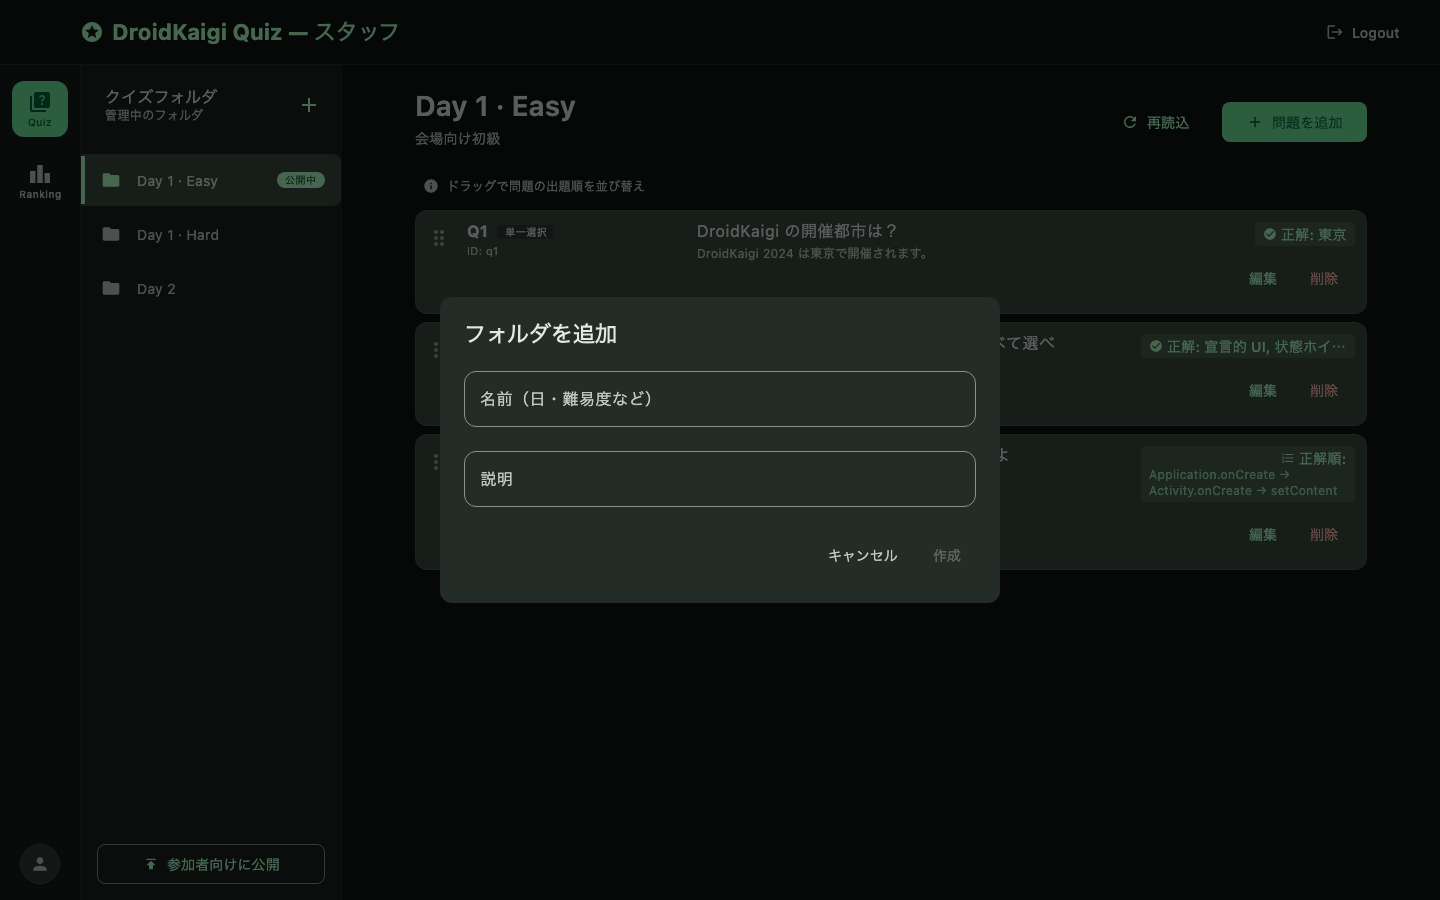
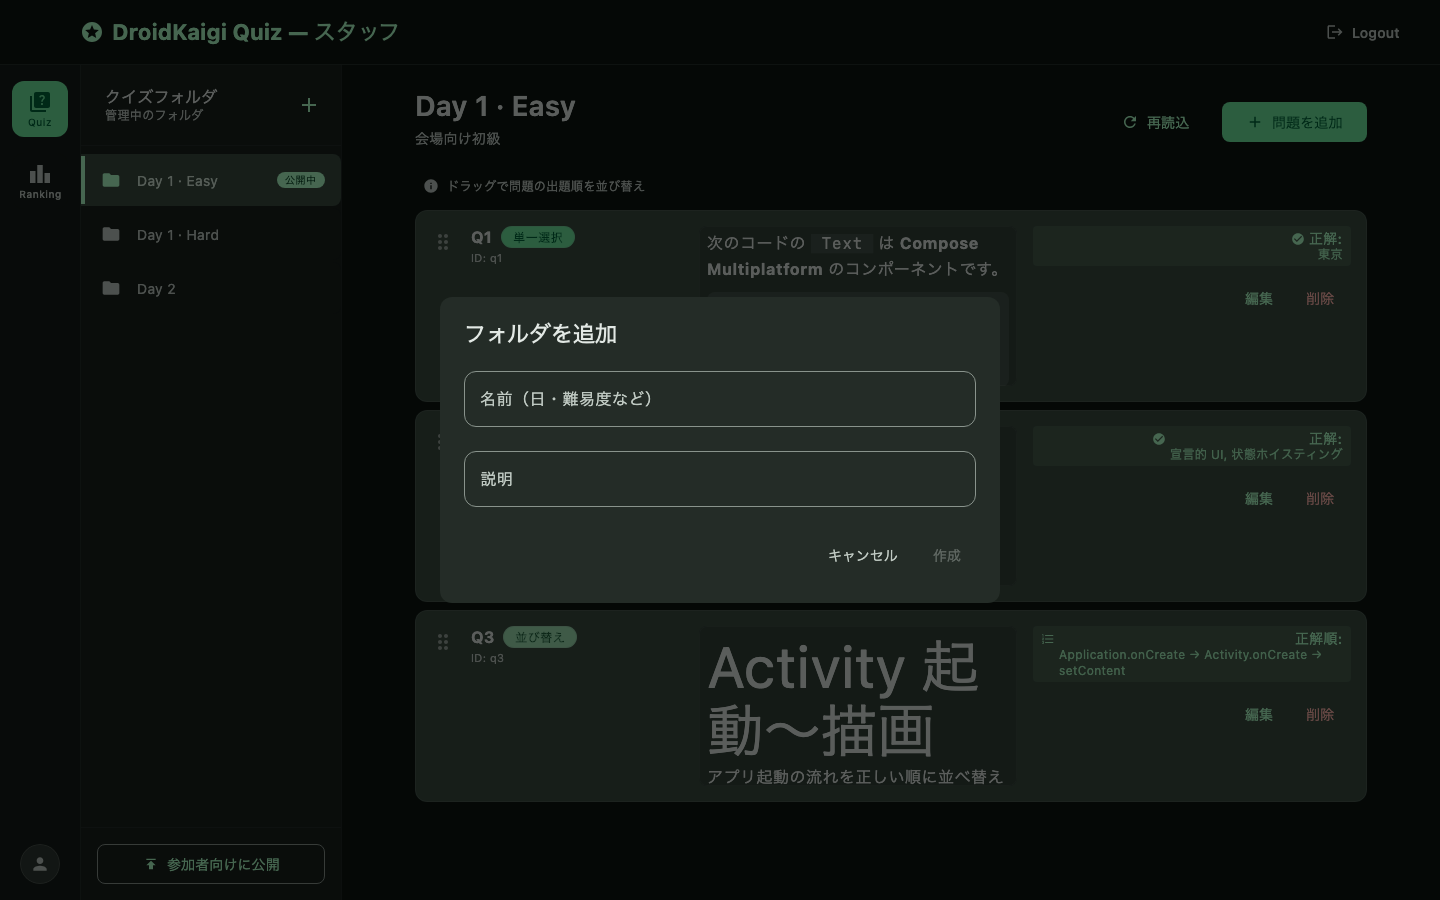
スタッフ問題一覧・編集 UI の可読性改善 (#66)
* Improve staff question list and editor readability from Stitch.

Widen the editor, add explanation preview, render list prompts as Markdown, color-code type chips, and make correct answers wrap; document Stitch-first UI workflow.

* Make long staff question prompts scrollable.

Increase question-card height, contain Markdown in a scrollable viewport, cap long correct answers, and remove the obsolete neutral badge.

---------

diff --git a/feature/staff/src/commonMain/kotlin/com/droidkaigi/quiz/feature/staff/quiz/StaffQuizScreen.kt b/feature/staff/src/commonMain/kotlin/com/droidkaigi/quiz/feature/staff/quiz/StaffQuizScreen.kt
@@ -13,10 +13,13 @@ import androidx.compose.foundation.layout.fillMaxHeight
 import androidx.compose.foundation.layout.fillMaxSize
 import androidx.compose.foundation.layout.fillMaxWidth
 import androidx.compose.foundation.layout.height
+import androidx.compose.foundation.layout.heightIn
 import androidx.compose.foundation.layout.padding
 import androidx.compose.foundation.layout.size
 import androidx.compose.foundation.layout.width
+import androidx.compose.foundation.rememberScrollState
 import androidx.compose.foundation.shape.RoundedCornerShape
+import androidx.compose.foundation.verticalScroll
 import androidx.compose.material.icons.Icons
 import androidx.compose.material.icons.filled.Add
 import androidx.compose.material.icons.filled.CheckCircle
@@ -44,13 +47,17 @@ import androidx.compose.ui.text.style.TextOverflow
 import androidx.compose.ui.unit.dp
 import androidx.compose.ui.unit.sp
 import androidx.lifecycle.viewmodel.compose.viewModel
+import com.droidkaigi.quiz.core.domain.model.MultipleChoice
 import com.droidkaigi.quiz.core.domain.model.Question
 import com.droidkaigi.quiz.core.domain.model.Reorder
+import com.droidkaigi.quiz.core.domain.model.SingleChoice
+import com.droidkaigi.quiz.core.ui.components.QuizMarkdownText
 import com.droidkaigi.quiz.core.ui.theme.QuizTokens
 import com.droidkaigi.quiz.feature.staff.StaffConfirmDialog
-import com.droidkaigi.quiz.feature.staff.components.StaffBadge
 import com.droidkaigi.quiz.feature.staff.components.StaffContentPane
 import com.droidkaigi.quiz.feature.staff.components.StaffFilledButton
+import com.droidkaigi.quiz.feature.staff.components.StaffQuestionTypeChip
+import com.droidkaigi.quiz.feature.staff.components.StaffQuestionTypeTone
 import com.droidkaigi.quiz.feature.staff.components.StaffSectionHeader
 import com.droidkaigi.quiz.feature.staff.components.StaffTextButton
 import com.droidkaigi.quiz.feature.staff.components.staffDividerColor
@@ -237,11 +244,12 @@ internal fun StaffQuestionCard(
     Row(
         modifier = modifier
             .fillMaxWidth()
+            .heightIn(min = 192.dp)
             .shadow(if (isDragging) 8.dp else 0.dp, RoundedCornerShape(QuizTokens.cornerMedium))
             .clip(RoundedCornerShape(QuizTokens.cornerMedium))
             .background(MaterialTheme.colorScheme.secondaryContainer)
             .border(1.dp, staffDividerColor(), RoundedCornerShape(QuizTokens.cornerMedium))
-            .padding(QuizTokens.spacingMedium - 4.dp),
+            .padding(QuizTokens.spacingMedium),
         verticalAlignment = Alignment.Top,
     ) {
         Icon(
@@ -261,7 +269,10 @@ internal fun StaffQuestionCard(
                     fontWeight = FontWeight.Bold,
                 )
                 Spacer(modifier = Modifier.width(QuizTokens.spacingSmall))
-                StaffBadge(text = questionTypeLabel(question))
+                StaffQuestionTypeChip(
+                    text = questionTypeLabel(question),
+                    type = questionTypeTone(question),
+                )
             }
             Spacer(modifier = Modifier.height(2.dp))
             Text(
@@ -272,27 +283,16 @@ internal fun StaffQuestionCard(
             )
         }
         Spacer(modifier = Modifier.width(QuizTokens.spacingMedium))
-        Column(modifier = Modifier.weight(2f)) {
-            Text(
-                text = question.prompt,
-                style = MaterialTheme.typography.bodyLarge,
-                maxLines = 2,
-                overflow = TextOverflow.Ellipsis,
-            )
-            if (question.explanationMarkdown.isNotBlank()) {
-                Spacer(modifier = Modifier.height(4.dp))
-                Text(
-                    text = question.explanationMarkdown,
-                    style = MaterialTheme.typography.bodySmall,
-                    color = MaterialTheme.colorScheme.onSurfaceVariant,
-                    maxLines = 1,
-                    overflow = TextOverflow.Ellipsis,
-                )
-            }
-        }
+        StaffQuestionMarkdownViewport(
+            prompt = question.prompt,
+            explanation = question.explanationMarkdown,
+            modifier = Modifier
+                .weight(1.5f)
+                .height(160.dp),
+        )
         Spacer(modifier = Modifier.width(QuizTokens.spacingMedium))
         Column(
-            modifier = Modifier.weight(1f),
+            modifier = Modifier.weight(1.5f),
             horizontalAlignment = Alignment.End,
         ) {
             StaffCorrectAnswerChip(question = question)
@@ -315,12 +315,13 @@ private fun StaffCorrectAnswerChip(question: Question) {
     val answer = correctAnswerText(question)
     Column(
         modifier = Modifier
+            .fillMaxWidth()
             .clip(RoundedCornerShape(4.dp))
             .background(MaterialTheme.colorScheme.primary.copy(alpha = 0.1f))
             .padding(horizontal = QuizTokens.spacingSmall, vertical = 4.dp),
         horizontalAlignment = Alignment.End,
     ) {
-        Row(verticalAlignment = Alignment.CenterVertically) {
+        Row(verticalAlignment = Alignment.Top) {
             Icon(
                 imageVector = if (question is Reorder) {
                     Icons.Default.FormatListNumbered
@@ -329,26 +330,56 @@ private fun StaffCorrectAnswerChip(question: Question) {
                 },
                 contentDescription = null,
                 tint = MaterialTheme.colorScheme.primary,
-                modifier = Modifier.size(14.dp),
+                modifier = Modifier
+                    .padding(top = 2.dp)
+                    .size(14.dp),
             )
             Spacer(modifier = Modifier.width(4.dp))
-            Text(
-                text = if (question is Reorder) "正解順:" else "正解: $answer",
-                style = MaterialTheme.typography.bodyMedium,
-                fontWeight = FontWeight.Medium,
-                color = MaterialTheme.colorScheme.primary,
-                maxLines = 1,
-                overflow = TextOverflow.Ellipsis,
-            )
+            Column(horizontalAlignment = Alignment.End) {
+                Text(
+                    text = if (question is Reorder) "正解順:" else "正解:",
+                    style = MaterialTheme.typography.bodyMedium,
+                    fontWeight = FontWeight.Medium,
+                    color = MaterialTheme.colorScheme.primary,
+                )
+                Text(
+                    text = answer,
+                    style = MaterialTheme.typography.bodySmall,
+                    color = MaterialTheme.colorScheme.primary.copy(alpha = 0.9f),
+                    softWrap = true,
+                    maxLines = 4,
+                    overflow = TextOverflow.Ellipsis,
+                )
+            }
         }
-        if (question is Reorder) {
+    }
+}
+
+@Composable
+private fun StaffQuestionMarkdownViewport(prompt: String, explanation: String, modifier: Modifier = Modifier) {
+    val scrollState = rememberScrollState()
+    Column(
+        modifier = modifier
+            .clip(RoundedCornerShape(QuizTokens.cornerSmall))
+            .background(MaterialTheme.colorScheme.surface.copy(alpha = 0.16f))
+            .border(1.dp, staffDividerColor(0.12f), RoundedCornerShape(QuizTokens.cornerSmall))
+            .verticalScroll(scrollState)
+            .padding(horizontal = QuizTokens.spacingSmall, vertical = 6.dp),
+    ) {
+        QuizMarkdownText(prompt)
+        if (explanation.isNotBlank()) {
+            Spacer(modifier = Modifier.height(QuizTokens.spacingSmall))
             Text(
-                text = answer,
+                text = explanation,
                 style = MaterialTheme.typography.bodySmall,
-                color = MaterialTheme.colorScheme.primary.copy(alpha = 0.8f),
-                maxLines = 2,
-                overflow = TextOverflow.Ellipsis,
+                color = MaterialTheme.colorScheme.onSurfaceVariant,
             )
         }
     }
+}
+
+private fun questionTypeTone(question: Question): StaffQuestionTypeTone = when (question) {
+    is SingleChoice -> StaffQuestionTypeTone.SingleChoice
+    is MultipleChoice -> StaffQuestionTypeTone.MultipleChoice
+    is Reorder -> StaffQuestionTypeTone.Reorder
 }

diff --git a/feature/staff/src/commonMain/kotlin/com/droidkaigi/quiz/feature/staff/components/StaffComponents.kt b/feature/staff/src/commonMain/kotlin/com/droidkaigi/quiz/feature/staff/components/StaffComponents.kt
@@ -33,6 +33,7 @@ import androidx.compose.ui.Modifier
 import androidx.compose.ui.draw.clip
 import androidx.compose.ui.graphics.Color
 import androidx.compose.ui.graphics.vector.ImageVector
+import androidx.compose.ui.text.font.FontWeight
 import androidx.compose.ui.unit.Dp
 import androidx.compose.ui.unit.dp
 import androidx.compose.ui.unit.sp
@@ -138,20 +139,43 @@ fun StaffOutlinedButton(
     }
 }
 
-/** Neutral metadata chip (question type, question id). */
+/**
+ * Color-coded question-type chip (Stitch: larger pill, distinct container tones).
+ * Single → primaryContainer · Multiple → secondary · Reorder → tertiaryContainer.
+ */
 @Composable
-fun StaffBadge(text: String, modifier: Modifier = Modifier) {
+fun StaffQuestionTypeChip(text: String, type: StaffQuestionTypeTone, modifier: Modifier = Modifier) {
+    val background = when (type) {
+        StaffQuestionTypeTone.SingleChoice -> MaterialTheme.colorScheme.primaryContainer
+
+        // secondaryContainer matches question-card fill; use secondary for contrast on cards.
+        StaffQuestionTypeTone.MultipleChoice -> MaterialTheme.colorScheme.secondary
+
+        StaffQuestionTypeTone.Reorder -> MaterialTheme.colorScheme.tertiaryContainer
+    }
+    val content = when (type) {
+        StaffQuestionTypeTone.SingleChoice -> MaterialTheme.colorScheme.onPrimaryContainer
+        StaffQuestionTypeTone.MultipleChoice -> MaterialTheme.colorScheme.onSecondary
+        StaffQuestionTypeTone.Reorder -> MaterialTheme.colorScheme.onTertiaryContainer
+    }
     Text(
         text = text,
         style = MaterialTheme.typography.labelMedium,
-        fontSize = 10.sp,
-        color = MaterialTheme.colorScheme.onSurface,
+        fontSize = 12.sp,
+        fontWeight = FontWeight.Bold,
+        color = content,
         modifier = modifier
-            .clip(RoundedCornerShape(4.dp))
-            .background(MaterialTheme.colorScheme.surfaceVariant)
-            .border(1.dp, staffDividerColor(), RoundedCornerShape(4.dp))
-            .padding(horizontal = QuizTokens.spacingSmall, vertical = 2.dp),
+            .clip(CircleShape)
+            .background(background)
+            .border(1.dp, staffDividerColor(), CircleShape)
+            .padding(horizontal = 12.dp, vertical = 4.dp),
     )
+}
+
+enum class StaffQuestionTypeTone {
+    SingleChoice,
+    MultipleChoice,
+    Reorder,
 }
 
 /** Accent pill marking the folder participants currently see. */

diff --git a/feature/staff/src/jvmTest/kotlin/com/droidkaigi/quiz/feature/staff/StaffScreenshotJvmUiTest.kt b/feature/staff/src/jvmTest/kotlin/com/droidkaigi/quiz/feature/staff/StaffScreenshotJvmUiTest.kt
@@ -339,7 +339,16 @@ private val sampleShellState = StaffShellUiState(
 private val sampleQuestions = listOf(
     SingleChoice(
         id = "q1",
-        prompt = "DroidKaigi の開催都市は？",
+        prompt = """
+            次のコードの `Text` は **Compose Multiplatform** のコンポーネントです。
+
+            ```kotlin
+            @Composable
+            fun Greeting() {
+                Text("Hello, DroidKaigi!")
+            }
+            ```
+        """.trimIndent(),
         explanationMarkdown = "DroidKaigi 2024 は東京で開催されます。",
         options = listOf(
             ChoiceOption("opt1", "東京"),
@@ -350,7 +359,11 @@ private val sampleQuestions = listOf(
     ),
     MultipleChoice(
         id = "q2",
-        prompt = "Compose の特徴として正しいものをすべて選べ",
+        prompt = """
+            次の **Compose** コードについて、正しい説明をすべて選んでください。
+
+            `var count by remember { mutableStateOf(0) }`
+        """.trimIndent(),
         explanationMarkdown = "UI 構築の基本原則に関する問題",
         options = listOf(
             ChoiceOption("opt1", "宣言的 UI"),
@@ -361,7 +374,11 @@ private val sampleQuestions = listOf(
     ),
     Reorder(
         id = "q3",
-        prompt = "アプリ起動の流れを正しい順に並べ替えよ",
+        prompt = """
+            # Activity 起動〜描画
+
+            アプリ起動の流れを正しい順に並べ替えてください。
+        """.trimIndent(),
         explanationMarkdown = "Android のライフサイクルと初期化プロセス",
         items = listOf(
             ReorderItem("i1", "Application.onCreate"),
@@ -383,8 +400,8 @@ private val sampleRanking = listOf(
 
 private val sampleEditorDraft = StaffQuestionDraft(
     id = "q1",
-    prompt = "DroidKaigi の開催都市は？",
-    explanationMarkdown = "東京で開催されます。",
+    prompt = "**DroidKaigi** の開催都市は？",
+    explanationMarkdown = "東京で開催されます。`venue` は会場側の設定です。",
     type = StaffQuestionType.SingleChoice,
     items = listOf(
         StaffListItem("opt1", "東京"),

diff --git a/feature/staff/src/commonMain/kotlin/com/droidkaigi/quiz/feature/staff/quiz/StaffQuestionEditorPanel.kt b/feature/staff/src/commonMain/kotlin/com/droidkaigi/quiz/feature/staff/quiz/StaffQuestionEditorPanel.kt
@@ -64,6 +64,7 @@ fun StaffQuestionEditorPanel(
 ) {
     var typeMenuExpanded by remember { mutableStateOf(false) }
     var showPromptPreview by remember { mutableStateOf(false) }
+    var showExplanationPreview by remember { mutableStateOf(false) }
 
     val borderColor = staffDividerColor()
     Column(
@@ -171,7 +172,7 @@ fun StaffQuestionEditorPanel(
                     colors = staffFieldColors(),
                     modifier = Modifier
                         .fillMaxWidth()
-                        .height(96.dp),
+                        .height(144.dp),
                 )
                 if (showPromptPreview && draft.prompt.isNotBlank()) {
                     QuizMarkdownText(draft.prompt)
@@ -189,7 +190,18 @@ fun StaffQuestionEditorPanel(
             }
 
             Column(verticalArrangement = Arrangement.spacedBy(QuizTokens.spacingSmall)) {
-                StaffFieldLabel(text = "解説", hint = "(Markdown)")
+                Row(
+                    modifier = Modifier.fillMaxWidth(),
+                    horizontalArrangement = Arrangement.SpaceBetween,
+                    verticalAlignment = Alignment.Bottom,
+                ) {
+                    StaffFieldLabel(text = "解説", hint = "(Markdown)")
+                    StaffTextButton(
+                        text = "プレビュー",
+                        icon = Icons.Default.Visibility,
+                        onClick = { showExplanationPreview = !showExplanationPreview },
+                    )
+                }
                 OutlinedTextField(
                     value = draft.explanationMarkdown,
                     onValueChange = { onDraftChange(draft.copy(explanationMarkdown = it)) },
@@ -197,8 +209,11 @@ fun StaffQuestionEditorPanel(
                     colors = staffFieldColors(),
                     modifier = Modifier
                         .fillMaxWidth()
-                        .height(80.dp),
+                        .height(120.dp),
                 )
+                if (showExplanationPreview && draft.explanationMarkdown.isNotBlank()) {
+                    QuizMarkdownText(draft.explanationMarkdown)
+                }
             }
         }
         StaffHorizontalDivider(alpha = 0.15f)

diff --git a/core/ui/src/commonMain/kotlin/com/droidkaigi/quiz/core/ui/theme/QuizTokens.kt b/core/ui/src/commonMain/kotlin/com/droidkaigi/quiz/core/ui/theme/QuizTokens.kt
@@ -85,7 +85,7 @@ object QuizTokens {
     // Staff console layout metrics (1440x900 desktop reference).
     val staffNavRailWidth = 80.dp
     val staffSidebarWidth = 260.dp
-    val staffEditorPanelWidth = 450.dp
+    val staffEditorPanelWidth = 560.dp
     val staffContentMaxWidth = 1000.dp
     val staffTopBarHeight = 64.dp
     val staffTableRowHeight = 56.dp

diff --git a/.cursor/skills/droidkaigi-quiz/SKILL.md b/.cursor/skills/droidkaigi-quiz/SKILL.md
@@ -9,18 +9,20 @@ description: Master workflow for DroidKaigi 2026 Quiz — new screens, features,
 
 1. Read AC in `docs/SPEC.md`
 2. Confirm module from `AGENTS.md`
+3. Visual UI changes: follow `.cursor/rules/quiz-stitch-source.mdc` — **feedback → Stitch → implement from Stitch** (do not finalize layout in code first)
 
 ## Order
 
 1. **Domain** — models, `QuizScorer` / use cases, `commonTest`
 2. **Data** — repository if needed, wire `AppDependencies.shared`
-3. **UI** — tokens/components in `core:ui` if reusable
-4. **Feature** — Screen + ViewModel (MVI 4 files)
-5. **Nav** — register route in `composeApp/.../QuizNavHost.kt`
-6. **Test** — see `.cursor/skills/droidkaigi-quiz-test/SKILL.md`
-7. **Verify** — see `.cursor/skills/droidkaigi-quiz-verify/SKILL.md`
-8. **Staff UI PR screenshots** — 管理者アプリ UI 変更時は `.cursor/skills/staff-pr-screenshots/SKILL.md`（必須・比較表で埋め込み）
-9. **Review** — see `.cursor/skills/droidkaigi-quiz-review/SKILL.md`（PR 前）
+3. **Stitch** (visual UI) — update design from feedback; treat Stitch proposal as primary
+4. **UI** — tokens/components in `core:ui` if reusable
+5. **Feature** — Screen + ViewModel (MVI 4 files)
+6. **Nav** — register route in `composeApp/.../QuizNavHost.kt`
+7. **Test** — see `.cursor/skills/droidkaigi-quiz-test/SKILL.md`
+8. **Verify** — see `.cursor/skills/droidkaigi-quiz-verify/SKILL.md`
+9. **Staff UI PR screenshots** — 管理者アプリ UI 変更時は `.cursor/skills/staff-pr-screenshots/SKILL.md`（必須・比較表で埋め込み）
+10. **Review** — see `.cursor/skills/droidkaigi-quiz-review/SKILL.md`（PR 前）
 
 参加者アプリを実機で通しレビューして指摘を Issue 化するときは `.cursor/skills/droidkaigi-quiz-device-review/SKILL.md`
 

diff --git a/AGENTS.md b/AGENTS.md
@@ -29,7 +29,7 @@ Dependency direction: `feature → core:ui, domain` · `data → domain` · `com
 - Spec: [docs/SPEC.md](docs/SPEC.md)
 - Firestore (prod DB): [docs/FIRESTORE.md](docs/FIRESTORE.md) · CLI: [firebase.json](firebase.json)
 - Verify: [docs/VERIFY.md](docs/VERIFY.md)
-- Rules: [.cursor/rules/](.cursor/rules/) (`quiz-app-core`, `quiz-feature`, `quiz-domain-data`, `quiz-animation`, `quiz-android-pr-screenshots`, `quiz-staff-pr-screenshots`)
+- Rules: [.cursor/rules/](.cursor/rules/) (`quiz-app-core`, `quiz-feature`, `quiz-domain-data`, `quiz-animation`, `quiz-android-pr-screenshots`, `quiz-staff-pr-screenshots`, `quiz-stitch-source`)
 
 ## Skills
 
